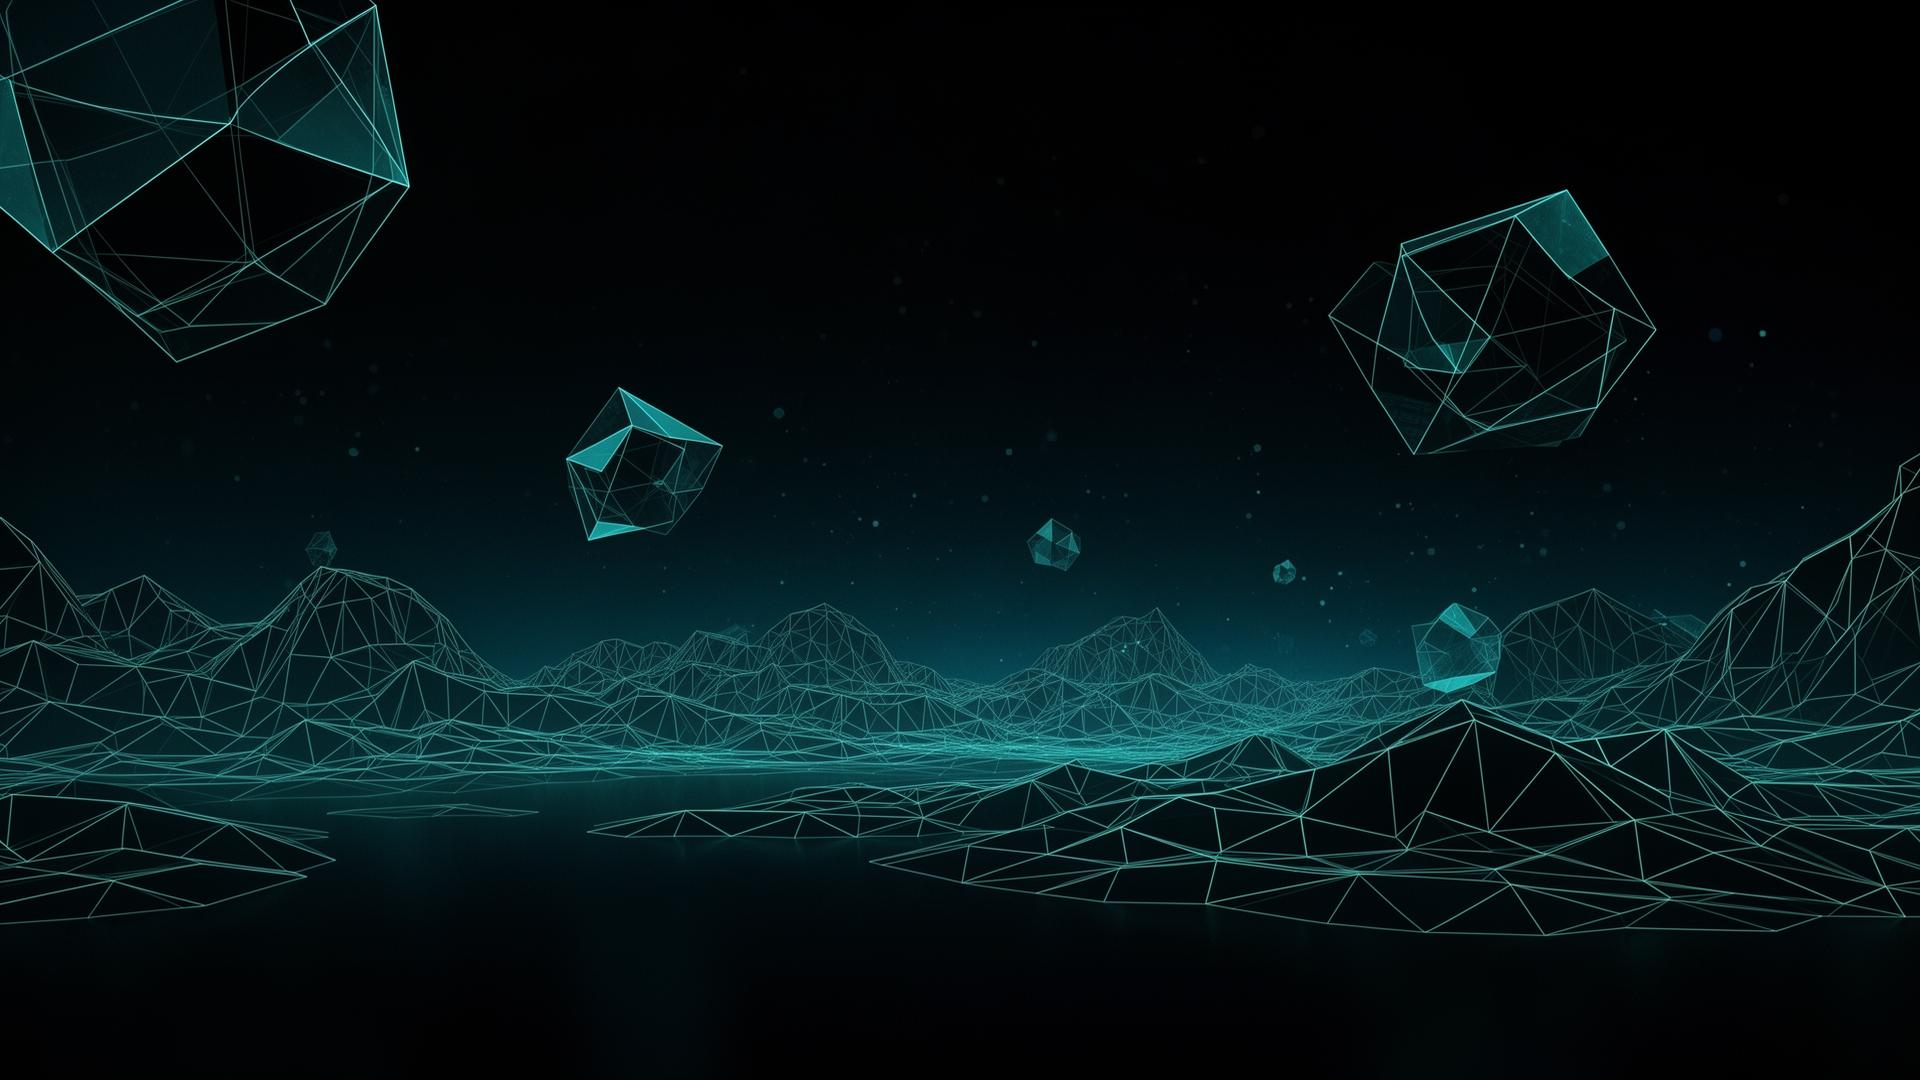
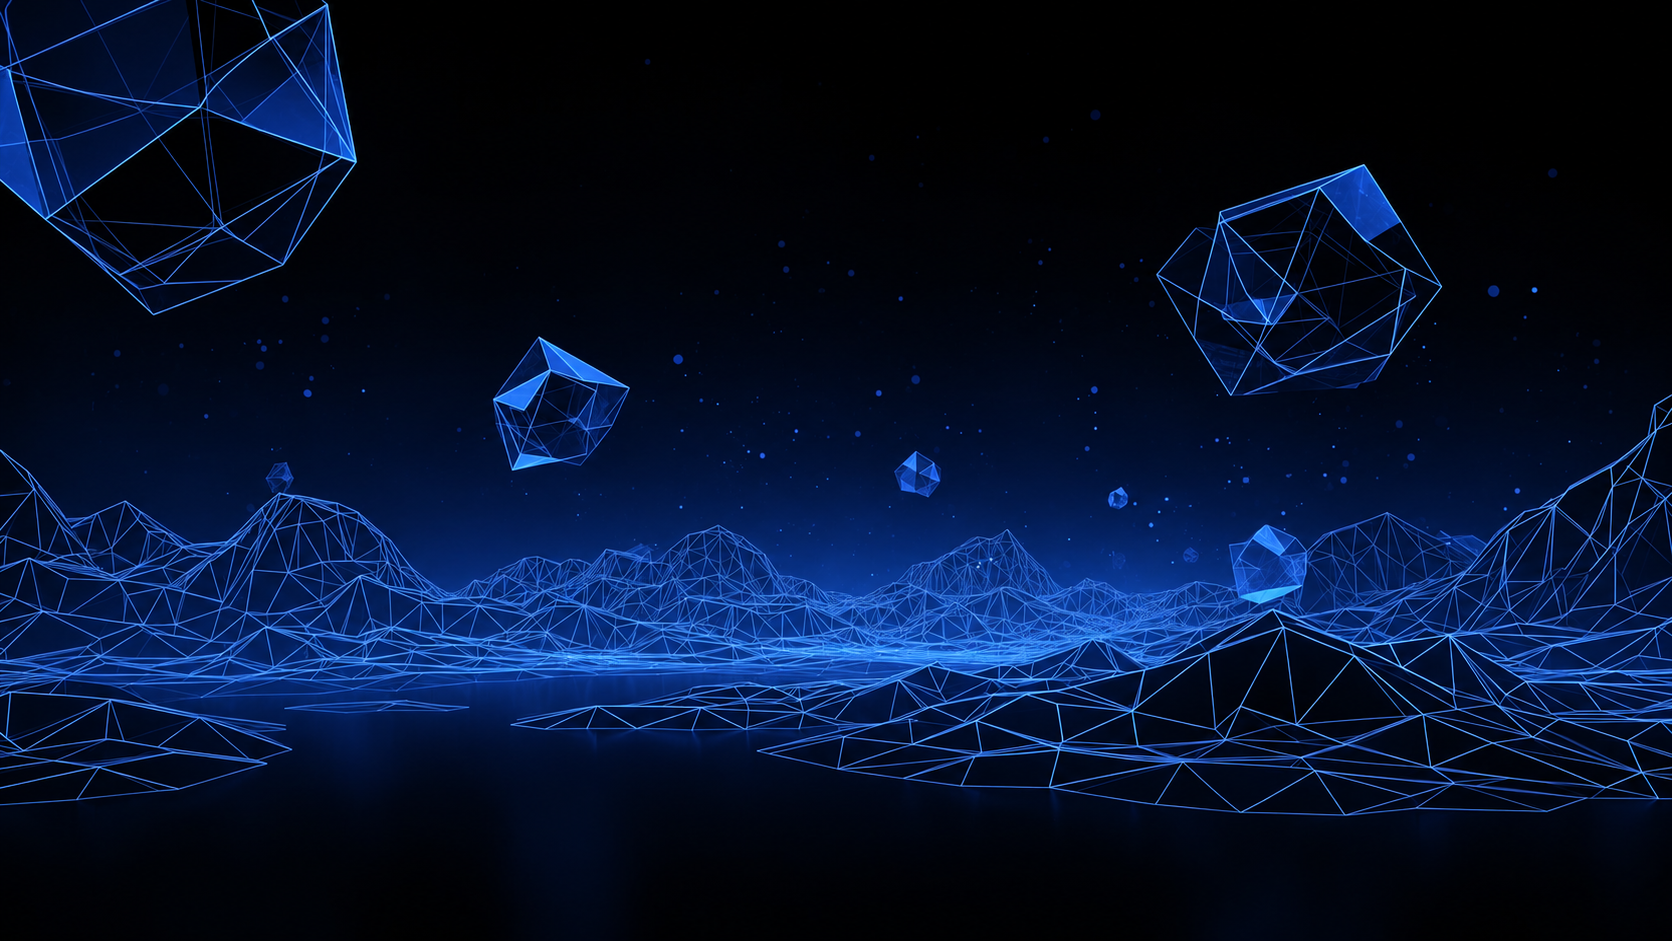
Refactor code structure for improved readability and maintainability

diff --git a/src/components/HeroSection.tsx b/src/components/HeroSection.tsx
@@ -30,7 +30,7 @@ const HeroSection = () => {
           <img
             src={heroBg}
             alt=""
-            className="w-full h-full object-cover opacity-60"
+            className="w-full h-full object-cover opacity-60 z-0"
           />
           <div className="absolute inset-0 bg-gradient-to-b from-background/40 via-background/60 to-background" />
         </div>
@@ -47,57 +47,82 @@ const HeroSection = () => {
           />
         </div>
 
+        {/* Full-height portrait, anchored right */}
+        <motion.div
+          initial={{ opacity: 0, scale: 1.05 }}
+          animate={{ opacity: 1, scale: 1 }}
+          transition={{ duration: 1.4, ease: [0.22, 1, 0.36, 1] }}
+          className="absolute inset-y-0 right-0 w-full lg:w-[58%] pointer-events-none"
+        >
+          {/* Ambient glow behind subject — blazer blue + trouser gold */}
+          <div className="absolute right-[8%] top-1/4 w-2/3 h-2/3 rounded-full bg-primary/20 blur-3xl" />
+          <div className="absolute right-0 bottom-0 w-1/2 h-1/2 rounded-full bg-accent/15 blur-3xl" />
+
+          {/* Feather the image into the page on every edge for a soft, elegant blend */}
+          <div className="absolute inset-0 bg-gradient-to-t" />
+          <div className="absolute inset-x-0 top-0 h-32 bg-gradient-to-b from-background to-transparent" />
+
+          <img
+            src="/profile.png"
+            alt="Portrait of Karim Mohamed"
+            className="h-full w-[60%] object-none object-[center_top] opacity-30 lg:opacity-40 absolute right-0 top-[8%] scale-x-[-1] z-100000"
+            loading="eager"
+          />
+        </motion.div>
+
         {/* Content */}
-        <div className="relative z-10 text-center section-padding max-w-5xl mx-auto">
-          <motion.div
-            initial={{ opacity: 0, y: 30 }}
-            animate={{ opacity: 1, y: 0 }}
-            transition={{ duration: 0.8, delay: 0.2 }}
-          >
-            <p className="font-mono text-xs tracking-[0.3em] uppercase text-primary mb-6">
-              Senior 3D Web Engineer
-            </p>
-          </motion.div>
-
-          <motion.h1
-            initial={{ opacity: 0, y: 30 }}
-            animate={{ opacity: 1, y: 0 }}
-            transition={{ duration: 0.8, delay: 0.4 }}
-            className="text-5xl sm:text-6xl md:text-7xl lg:text-8xl font-bold tracking-tight leading-[0.95] mb-8"
-          >
-            <span className="block">Karim</span>
-            <span className="block gradient-text">Mohamed</span>
-          </motion.h1>
-
-          <motion.p
-            initial={{ opacity: 0, y: 30 }}
-            animate={{ opacity: 1, y: 0 }}
-            transition={{ duration: 0.8, delay: 0.6 }}
-            className="text-base md:text-lg text-muted-foreground max-w-2xl mx-auto leading-relaxed text-balance"
-          >
-            Building interactive 3D experiences, configurators, and real-time
-            simulations for web and immersive platforms.
-          </motion.p>
-
-          <motion.div
-            initial={{ opacity: 0, y: 20 }}
-            animate={{ opacity: 1, y: 0 }}
-            transition={{ duration: 0.8, delay: 0.9 }}
-            className="mt-12 flex items-center justify-center gap-6"
-          >
-            <a
-              href="#projects"
-              className="group relative px-8 py-3 rounded-lg font-medium text-sm bg-primary text-primary-foreground transition-all hover:shadow-[0_0_30px_hsl(var(--glow)/0.4)]"
+        <div className="relative z-10 section-padding max-w-6xl mx-auto w-full">
+          <div className="max-w-xl text-center lg:text-left mx-auto lg:mx-0">
+            <motion.div
+              initial={{ opacity: 0, y: 30 }}
+              animate={{ opacity: 1, y: 0 }}
+              transition={{ duration: 0.8, delay: 0.2 }}
             >
-              View Projects
-            </a>
-            <a
-              href="#contact"
-              className="px-8 py-3 rounded-lg font-medium text-sm border border-border text-foreground hover:border-primary/50 transition-all"
+              <p className="font-mono text-xs tracking-[0.3em] uppercase text-primary mb-6">
+                Senior 3D Web Engineer
+              </p>
+            </motion.div>
+
+            <motion.h1
+              initial={{ opacity: 0, y: 30 }}
+              animate={{ opacity: 1, y: 0 }}
+              transition={{ duration: 0.8, delay: 0.4 }}
+              className="text-5xl sm:text-6xl md:text-7xl font-bold tracking-tight leading-[0.95] mb-8"
             >
-              Contact
-            </a>
-          </motion.div>
+              <span className="block">Karim</span>
+              <span className="block gradient-text">Mohamed</span>
+            </motion.h1>
+
+            <motion.p
+              initial={{ opacity: 0, y: 30 }}
+              animate={{ opacity: 1, y: 0 }}
+              transition={{ duration: 0.8, delay: 0.6 }}
+              className="text-base md:text-lg text-muted-foreground max-w-md mx-auto lg:mx-0 leading-relaxed text-balance"
+            >
+              Building interactive 3D experiences, configurators, and real-time
+              simulations for web and immersive platforms.
+            </motion.p>
+
+            <motion.div
+              initial={{ opacity: 0, y: 20 }}
+              animate={{ opacity: 1, y: 0 }}
+              transition={{ duration: 0.8, delay: 0.9 }}
+              className="mt-12 flex items-center justify-center lg:justify-start gap-6"
+            >
+              <a
+                href="#projects"
+                className="group relative px-8 py-3 rounded-lg font-medium text-sm bg-primary text-primary-foreground transition-all hover:shadow-[0_0_30px_hsl(var(--glow)/0.4)]"
+              >
+                View Projects
+              </a>
+              <a
+                href="#contact"
+                className="px-8 py-3 rounded-lg font-medium text-sm border border-border text-foreground hover:border-primary/50 transition-all"
+              >
+                Contact
+              </a>
+            </motion.div>
+          </div>
         </div>
 
         {/* Scroll indicator */}

diff --git a/src/index.css b/src/index.css
@@ -6,40 +6,41 @@
 
 @layer base {
   :root {
-    --background: 220 20% 4%;
-    --foreground: 210 20% 92%;
+    /* Palette sampled from portrait: slate navy backdrop, royal-blue blazer, warm tan trousers */
+    --background: 218 26% 5%;
+    --foreground: 213 22% 92%;
 
-    --card: 220 18% 7%;
-    --card-foreground: 210 20% 92%;
+    --card: 218 22% 8%;
+    --card-foreground: 213 22% 92%;
 
-    --popover: 220 18% 7%;
-    --popover-foreground: 210 20% 92%;
+    --popover: 218 22% 8%;
+    --popover-foreground: 213 22% 92%;
 
-    --primary: 175 80% 50%;
-    --primary-foreground: 220 20% 4%;
+    --primary: 219 74% 56%;
+    --primary-foreground: 213 30% 97%;
 
-    --secondary: 220 15% 12%;
-    --secondary-foreground: 210 20% 85%;
+    --secondary: 218 18% 13%;
+    --secondary-foreground: 213 20% 85%;
 
-    --muted: 220 15% 14%;
-    --muted-foreground: 215 12% 50%;
+    --muted: 218 16% 15%;
+    --muted-foreground: 216 12% 52%;
 
-    --accent: 175 60% 40%;
-    --accent-foreground: 220 20% 4%;
+    --accent: 35 55% 60%;
+    --accent-foreground: 218 26% 5%;
 
     --destructive: 0 84.2% 60.2%;
     --destructive-foreground: 210 40% 98%;
 
-    --border: 220 15% 16%;
-    --input: 220 15% 16%;
-    --ring: 175 80% 50%;
+    --border: 218 16% 17%;
+    --input: 218 16% 17%;
+    --ring: 219 74% 56%;
 
     --radius: 0.75rem;
 
-    /* Custom tokens */
-    --glow: 175 80% 50%;
-    --glow-secondary: 260 70% 60%;
-    --surface-glass: 220 20% 8%;
+    /* Custom tokens — blue (blazer) → gold (trousers) accent pairing */
+    --glow: 219 74% 56%;
+    --glow-secondary: 35 62% 60%;
+    --surface-glass: 218 24% 9%;
   }
 }
 
@@ -53,8 +54,8 @@
   }
 
   ::selection {
-    background: hsl(175 80% 50% / 0.3);
-    color: hsl(210 20% 98%);
+    background: hsl(219 74% 56% / 0.35);
+    color: hsl(213 30% 98%);
   }
 }
 
